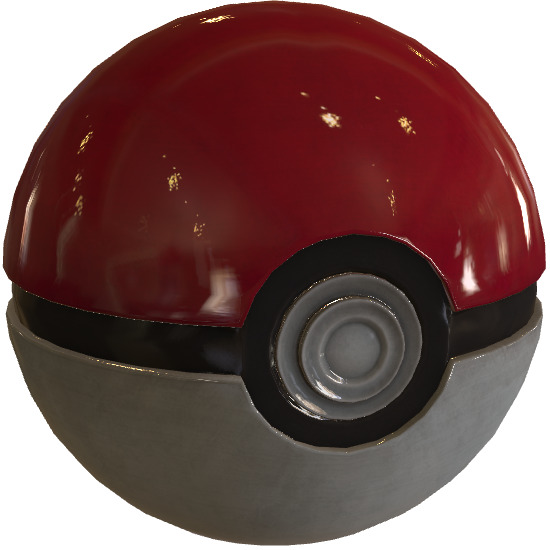
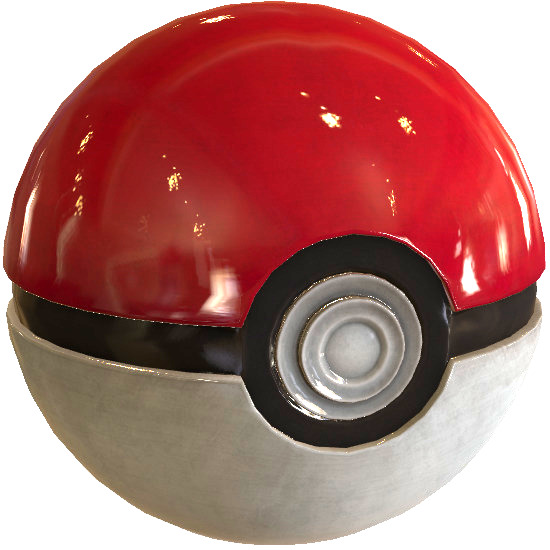
improved thumbnails
enhanced brightness and contrast of stock designs, rounded the others

diff --git a/index.html b/index.html
@@ -183,27 +183,27 @@
                                 style="padding:0.5vh; height: 50%">
                                 <div class="row" style="height:100%; width:100%; margin:0px">
                                     <div class="col-4" style="height:100%; width:100%">
-                                        <img id="red_metal" src="index_files/thumbnails/metal/red.jpg"
+                                        <img id="red_metal" src="index_files/thumbnails/metal/red.png"
                                             style="height: 100%; width: 100%; object-fit: contain; cursor: pointer;">
                                     </div>
                                     <div class="col-4" style="height:100%; width:100%">
-                                        <img id="green_metal" src="index_files/thumbnails/metal/green.jpg"
+                                        <img id="green_metal" src="index_files/thumbnails/metal/green.png"
                                             style="height: 100%; width: 100%; object-fit: contain; cursor: pointer;">
                                     </div>
                                     <div class="col-4" style="height:100%; width:100%">
-                                        <img id="blue_metal" src="index_files/thumbnails/metal/blue.jpg"
+                                        <img id="blue_metal" src="index_files/thumbnails/metal/blue.png"
                                             style="height: 100%; width: 100%; object-fit: contain; cursor: pointer;">
                                     </div>
                                     <div class="col-4" style="height:100%; width:100%">
-                                        <img id="black_metal" src="index_files/thumbnails/metal/black.jpg"
+                                        <img id="black_metal" src="index_files/thumbnails/metal/black.png"
                                             style="height: 100%; width: 100%; object-fit: contain; cursor: pointer;">
                                     </div>
                                     <div class="col-4" style="height:100%; width:100%">
-                                        <img id="gold_metal" src="index_files/thumbnails/metal/gold.jpg"
+                                        <img id="gold_metal" src="index_files/thumbnails/metal/gold.png"
                                             style="height: 100%; width: 100%; object-fit: contain; cursor: pointer;">
                                     </div>
                                     <div class="col-4" style="height:100%; width:100%">
-                                        <img id="copper_metal" src="index_files/thumbnails/metal/copper.jpg"
+                                        <img id="copper_metal" src="index_files/thumbnails/metal/copper.png"
                                             style="height: 100%; width: 100%; object-fit: contain; cursor: pointer;">
                                     </div>
                                 </div>
@@ -220,27 +220,27 @@
                                 style="padding:0.5vh; height: 50%">
                                 <div class="row" style="height:100%; width:100%; margin:0px">
                                     <div class="col-4" style="height:100%; width:100%">
-                                        <img id="red_ceramic" src="index_files/thumbnails/ceramic/red.jpg"
+                                        <img id="red_ceramic" src="index_files/thumbnails/ceramic/red.png"
                                             style="height: 100%; width: 100%; object-fit: contain; cursor: pointer;">
                                     </div>
                                     <div class="col-4" style="height:100%; width:100%">
-                                        <img id="green_ceramic" src="index_files/thumbnails/ceramic/green.jpg"
+                                        <img id="green_ceramic" src="index_files/thumbnails/ceramic/green.png"
                                             style="height: 100%; width: 100%; object-fit: contain; cursor: pointer;">
                                     </div>
                                     <div class="col-4" style="height:100%; width:100%">
-                                        <img id="blue_ceramic" src="index_files/thumbnails/ceramic/blue.jpg"
+                                        <img id="blue_ceramic" src="index_files/thumbnails/ceramic/blue.png"
                                             style="height: 100%; width: 100%; object-fit: contain; cursor: pointer;">
                                     </div>
                                     <div class="col-4" style="height:100%; width:100%">
-                                        <img id="purple_ceramic" src="index_files/thumbnails/ceramic/purple.jpg"
+                                        <img id="purple_ceramic" src="index_files/thumbnails/ceramic/purple.png"
                                             style="height: 100%; width: 100%; object-fit: contain; cursor: pointer;">
                                     </div>
                                     <div class="col-4" style="height:100%; width:100%">
-                                        <img id="white_ceramic" src="index_files/thumbnails/ceramic/white.jpg"
+                                        <img id="white_ceramic" src="index_files/thumbnails/ceramic/white.png"
                                             style="height: 100%; width: 100%; object-fit: contain; cursor: pointer;">
                                     </div>
                                     <div class="col-4" style="height:100%; width:100%">
-                                        <img id="black_ceramic" src="index_files/thumbnails/ceramic/black.jpg"
+                                        <img id="black_ceramic" src="index_files/thumbnails/ceramic/black.png"
                                             style="height: 100%; width: 100%; object-fit: contain; cursor: pointer;">
                                     </div>
                                 </div>
@@ -257,27 +257,27 @@
                                 style="padding:0.5vh; height: 50%">
                                 <div class="row" style="height:100%; width:100%; margin:0px">
                                     <div class="col-4" style="height:100%; width:100%">
-                                        <img id="fabric" src="index_files/thumbnails/others/fabric.jpg"
+                                        <img id="fabric" src="index_files/thumbnails/others/fabric.png"
                                             style="height: 100%; width: 100%; object-fit: contain; cursor: pointer;">
                                     </div>
                                     <div class="col-4" style="height:100%; width:100%">
-                                        <img id="marble" src="index_files/thumbnails/others/marble.jpg"
+                                        <img id="marble" src="index_files/thumbnails/others/marble.png"
                                             style="height: 100%; width: 100%; object-fit: contain; cursor: pointer;">
                                     </div>
                                     <div class="col-4" style="height:100%; width:100%">
-                                        <img id="wood" src="index_files/thumbnails/others/wood.jpg"
+                                        <img id="wood" src="index_files/thumbnails/others/wood.png"
                                             style="height: 100%; width: 100%; object-fit: contain; cursor: pointer;">
                                     </div>
                                     <div class="col-4" style="height:100%; width:100%">
-                                        <img id="tiles" src="index_files/thumbnails/others/tiles.jpg"
+                                        <img id="tiles" src="index_files/thumbnails/others/tiles.png"
                                             style="height: 100%; width: 100%; object-fit: contain; cursor: pointer;">
                                     </div>
                                     <div class="col-4" style="height:100%; width:100%">
-                                        <img id="rubber" src="index_files/thumbnails/others/rubber.jpg"
+                                        <img id="rubber" src="index_files/thumbnails/others/rubber.png"
                                             style="height: 100%; width: 100%; object-fit: contain; cursor: pointer;">
                                     </div>
                                     <div class="col-4" style="height:100%; width:100%">
-                                        <img id="mirror" src="index_files/thumbnails/others/mirror.jpg"
+                                        <img id="mirror" src="index_files/thumbnails/others/mirror.png"
                                             style="height: 100%; width: 100%; object-fit: contain; cursor: pointer;">
                                     </div>
                                 </div>
